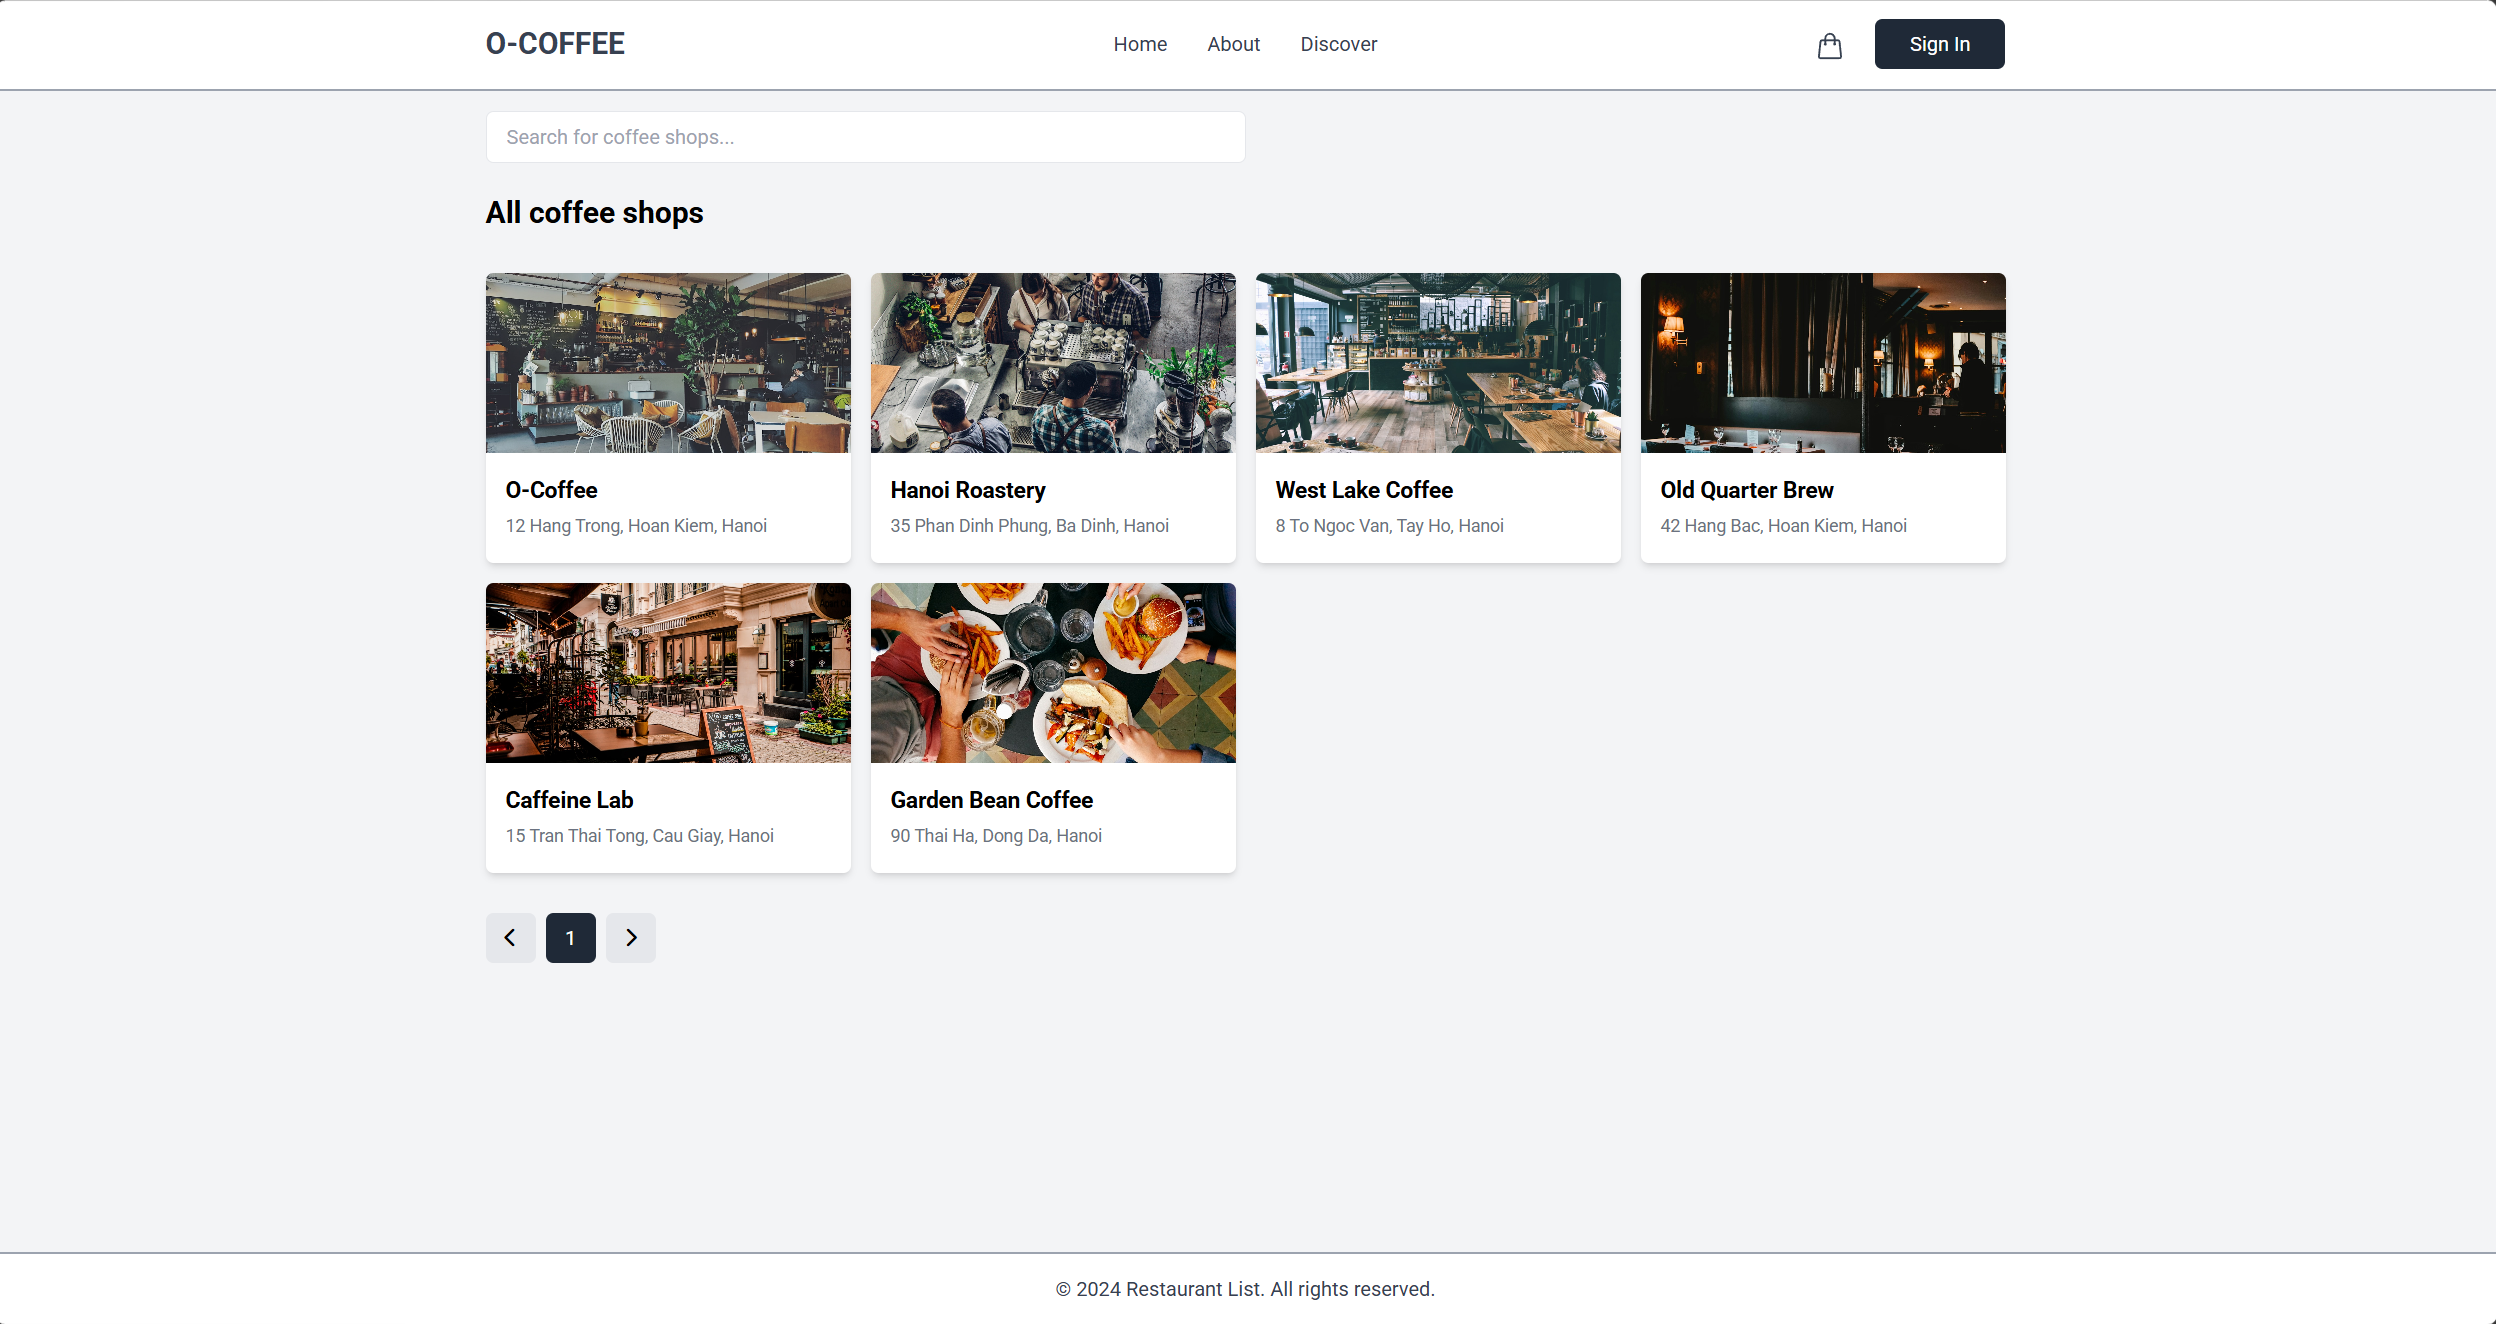
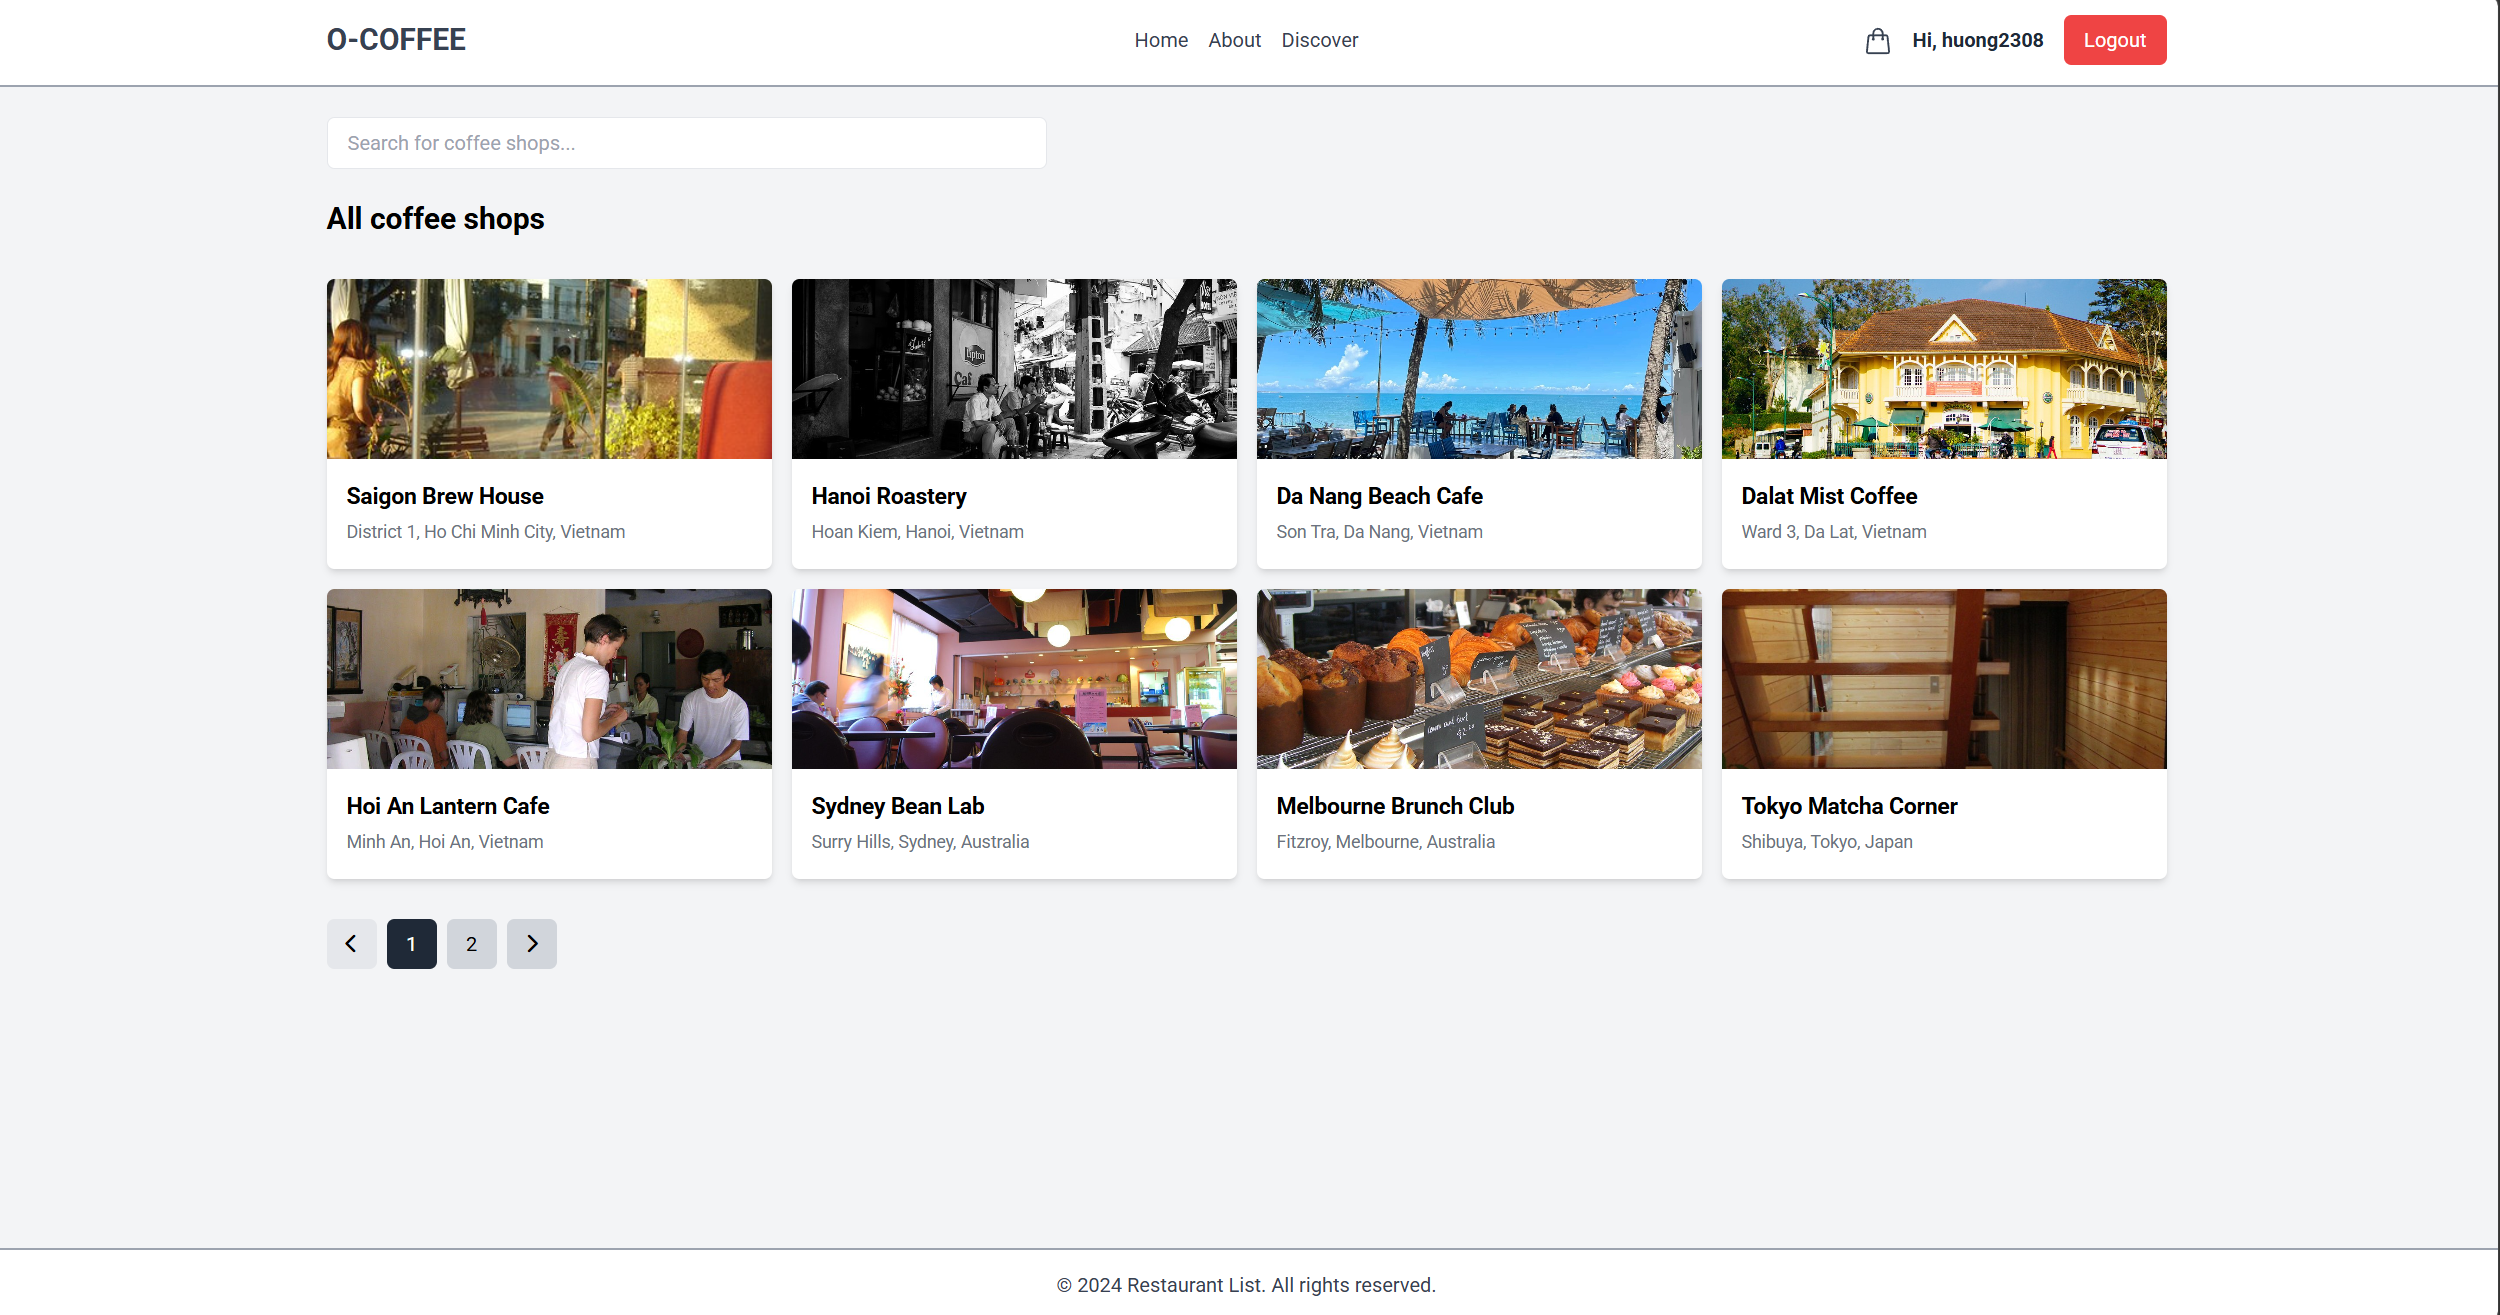
feat(doc): update README screenshots

Changed region(s): [[0.125, 0.1559, 0.875, 0.7483], [0.0, 0.0, 1.0, 0.1247], [0.0, 0.9354, 1.0, 0.9977]]

diff --git a/README.md b/README.md
@@ -40,6 +40,14 @@ Live demo: [https://food.myproject.bar](https://food.myproject.bar)
 
 ![Menu items](./screenshot/menu.png)
 
+#### Shopping cart
+
+![Shopping cart](./screenshot/cart.png)
+
+#### Checkout
+
+![Checkout](./screenshot/checkout.png)
+
 #### Order confirmation
 
 ![Order confirmation](./screenshot/order-confirmed.png)
